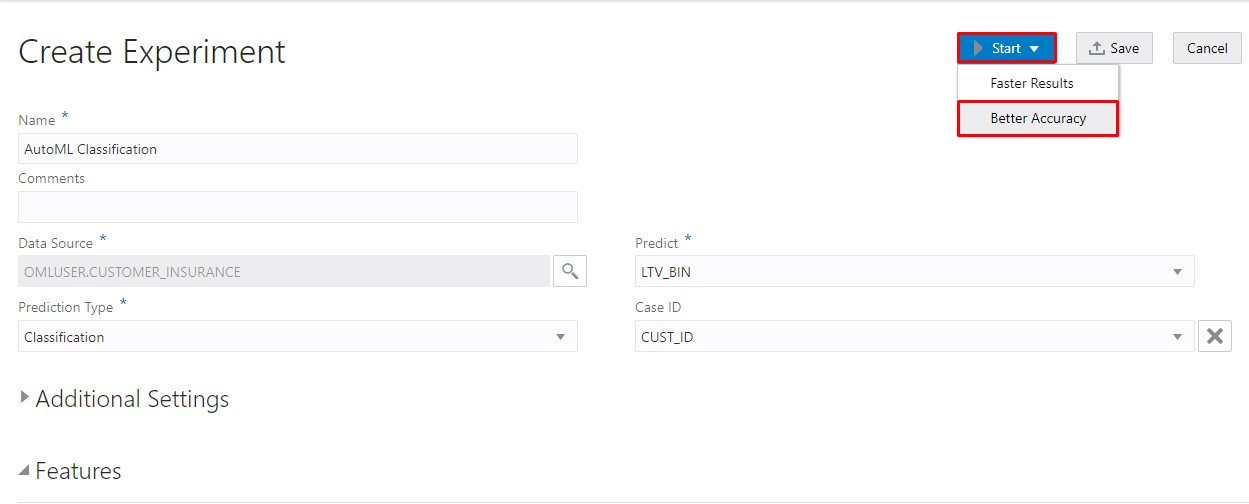
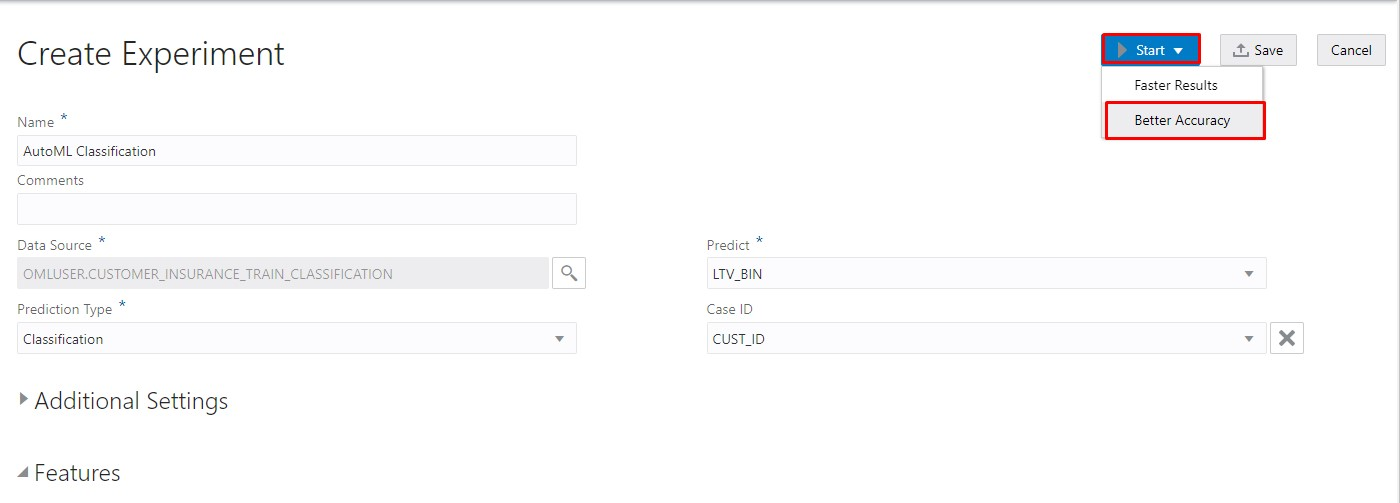
Added the Train / Test split

diff --git a/oml-services-v2/oml-notebook-and-automl-ui/oml-notebook-and-automl-ui.md b/oml-services-v2/oml-notebook-and-automl-ui/oml-notebook-and-automl-ui.md
@@ -55,6 +55,52 @@ Estimated Time: 15 minutes
 
  Notice the columns ``LTV`` and ``LTV_BIN`` when you scroll to the right. These are our targets for the machine learning.
 
+ * Drop training and test tables if they exist
+
+     ````
+     <copy> %script
+     DROP TABLE Customer_insurance_train_classification;
+
+     DROP TABLE Customer_insurance_test_classification;
+     </copy>
+     ````
+     ![drop-model-tables](images/automl-screenshot-3.jpg)
+
+     If the tables don't exist, the script will return an error. We will create the tables in the next steps
+
+  * Create the training table for our Auto ML UI
+
+     ````
+     <copy>
+     %script
+     create table Customer_insurance_train_classification as
+     select CUST_ID,"LAST","FIRST","STATE","REGION","SEX","PROFESSION","BUY_INSURANCE","AGE","HAS_CHILDREN","SALARY","N_OF_DEPENDENTS","CAR_OWNERSHIP","HOUSE_OWNERSHIP","TIME_AS_CUSTOMER","MARITAL_STATUS","CREDIT_BALANCE","BANK_FUNDS","CHECKING_AMOUNT","MONEY_MONTLY_OVERDRAWN","T_AMOUNT_AUTOM_PAYMENTS","MONTHLY_CHECKS_WRITTEN","MORTGAGE_AMOUNT","N_TRANS_ATM","N_MORTGAGES","N_TRANS_TELLER","CREDIT_CARD_LIMITS","N_TRANS_KIOSK","N_TRANS_WEB_BANK", "LTV","LTV_BIN"
+     from customer_insurance
+     SAMPLE (70) SEED (1)
+     where cust_id not in ('CU12350','CU12331', 'CU12286')
+     </copy>
+     ````
+     ![create-training-table](images/automl-screenshot-4.jpg)
+
+     Notice that we keep the ``LTV_BIN`` column to be the target for our supervised learning classification model.
+      For this particular workshop we exclude 3 specific customers so we will score 3 different models using their data.
+
+
+ * Create the test table for our Auto ML UI
+
+     ````
+     <copy>%script
+     create table Customer_insurance_test_classification as
+     select CUST_ID,"LAST","FIRST","STATE","REGION","SEX","PROFESSION","BUY_INSURANCE","AGE","HAS_CHILDREN","SALARY","N_OF_DEPENDENTS","CAR_OWNERSHIP","HOUSE_OWNERSHIP","TIME_AS_CUSTOMER","MARITAL_STATUS","CREDIT_BALANCE","BANK_FUNDS","CHECKING_AMOUNT","MONEY_MONTLY_OVERDRAWN","T_AMOUNT_AUTOM_PAYMENTS","MONTHLY_CHECKS_WRITTEN","MORTGAGE_AMOUNT","N_TRANS_ATM","N_MORTGAGES","N_TRANS_TELLER","CREDIT_CARD_LIMITS","N_TRANS_KIOSK","N_TRANS_WEB_BANK","LTV","LTV_BIN"
+     from customer_insurance
+     minus
+     select CUST_ID,"LAST","FIRST","STATE","REGION","SEX","PROFESSION","BUY_INSURANCE","AGE","HAS_CHILDREN","SALARY","N_OF_DEPENDENTS","CAR_OWNERSHIP","HOUSE_OWNERSHIP","TIME_AS_CUSTOMER","MARITAL_STATUS","CREDIT_BALANCE","BANK_FUNDS","CHECKING_AMOUNT","MONEY_MONTLY_OVERDRAWN","T_AMOUNT_AUTOM_PAYMENTS","MONTHLY_CHECKS_WRITTEN","MORTGAGE_AMOUNT","N_TRANS_ATM","N_MORTGAGES","N_TRANS_TELLER","CREDIT_CARD_LIMITS","N_TRANS_KIOSK","N_TRANS_WEB_BANK","LTV","LTV_BIN"
+      from Customer_insurance_train_classification
+     </copy>
+     ````
+     ![create-test-table](images/automl-screenshot-5.jpg)
+
+     Notice that in the testing table we will not use any of the leading ``LTV`` or ``LTV_BIN`` columns. These column might be misleading in the process. We will still use them in our verification process.
 
 ## Task 2: Use OML AutoML UI from Oracle Autonomous Database
 
@@ -72,7 +118,7 @@ Estimated Time: 15 minutes
 * In the Create Experiment page choose the following details:
 
     - Name: **AutoML Classification**
-    - Data Source: chose the **CUSTOMER\_INSURANCE** table in the OMLUSER schema.
+    - Data Source: chose the **CUSTOMER\_INSURANCE\_TRAIN\_CLASSIFICATION** table in the OMLUSER schema.
     - Predict: **LTV_BIN**
     - Prediction Type: **CLASSIFICATION**
     - Case ID: **CUST_ID**
@@ -113,7 +159,7 @@ In most cases the name of the candidate should not be a deciding factor so we wi
 
   ![Classification Experiment Result](images/automl-screenshot-11.jpg)
 
-  Each model described here is based on one of the automatically selected algorithms. We can click on the model name and see its details.
+  Each model described here is based on one of the automatically selected algorithms. Select the **Support Vector Machine (Gaussian)** algorithm and click on the model name which starts with **SVMG_**.
 
   ![Chose a model](images/automl-screenshot-12.jpg)
 
@@ -197,20 +243,42 @@ We have a confirmation that the model was deployed successfully.
 
      ````
      <copy>%sql
-       SELECT a.cust_id,
-             a. Last,
-             a.First,
-             PREDICTION(SVMG USING a.*) PREDICTION,
-             PREDICTION_PROBABILITY(SVMG USING a.*)  PREDICTION_PROBABILITY,
-             a.LTV_BIN
-       FROM CUSTOMER_INSURANCE a
-      where a.cust_id in ('CU12350','CU12331', 'CU12286')
+         SELECT a.cust_id,
+               a. Last,
+               a.First,
+               PREDICTION(SVMG USING a.*) PREDICTION,
+               PREDICTION_PROBABILITY(SVMG USING a.*)  PREDICTION_PROBABILITY,
+               b.LTV_BIN
+         FROM Customer_insurance_test_classification a,
+         Customer_insurance b
+        where a.cust_id = b.cust_id
+        and b.cust_id in ('CU12350','CU12331', 'CU12286')
      </copy>
      ````
 
   ![Classification Prediction](images/automl-screenshot-34.jpg)
 
- The SQL statement returns the most probable group or class for the data provided in the column PREDICTION with it’s corresponding prediction probabilty. In out case the prediction is the same as the actual ``LTB_BIN`` column in ``CUSTOMER_INSURANCE`` initial table.
+ The SQL statement returns the most probable group or class for the data provided in the column PREDICTION with it’s corresponding prediction probability for each of the customers selected. In out case the prediction is the same as the actual ``LTB_BIN`` column in ``CUSTOMER_INSURANCE`` initial table.
+
+* Run the following SQL statement to compare the model predicted value with the actual value in the testing table.
+
+````
+<copy>%sql
+      SELECT a.cust_id,
+             a.Last,
+             a.First,
+             PREDICTION(SVMG USING a.*) PREDICTION,
+             b.LTV_BIN
+      FROM Customer_insurance_test_classification a,
+      Customer_insurance b
+       where a.cust_id = b.cust_id and a.last = b.last
+</copy>
+````
+
+![Classification Prediction](images/automl-screenshot-35.jpg)
+
+ The SQL statement returns the most probable group or class for the data provided in the column ``PREDICTION`` compared with the column ``LTV_BIN`` from the initial table.
+
 
 ## Acknowledgements
 * **Authors** -  Andrei Manoliu, Milton Wan
